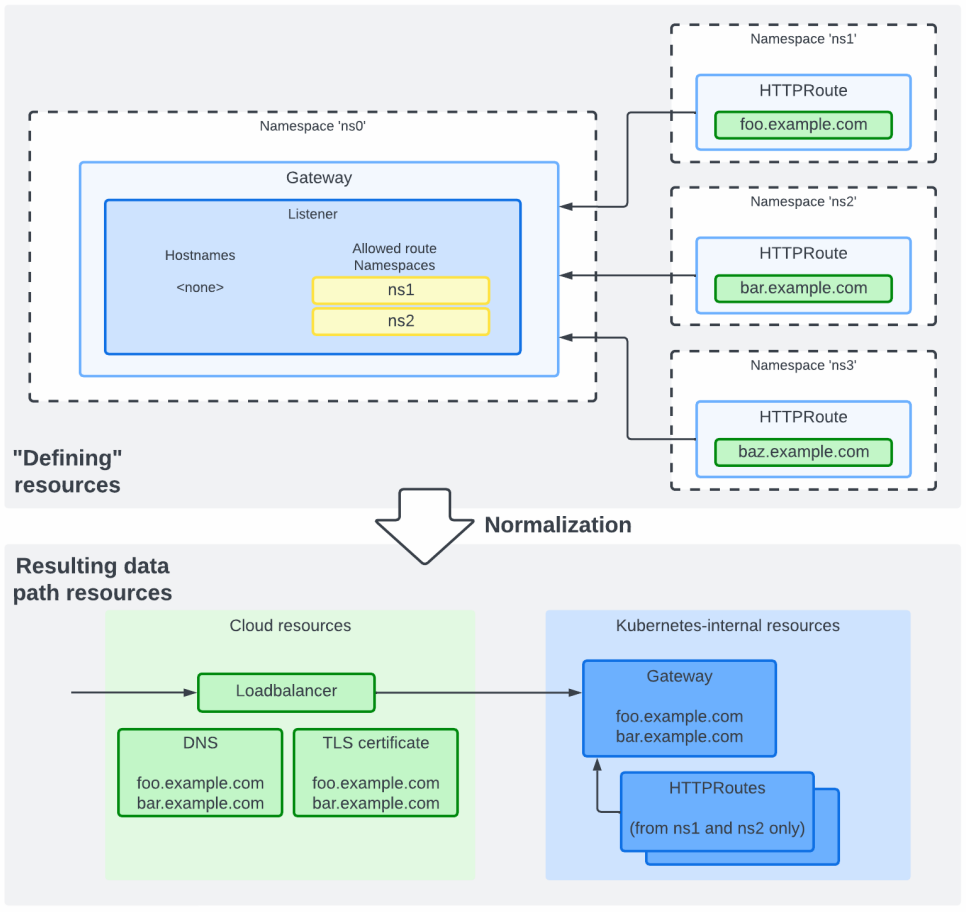
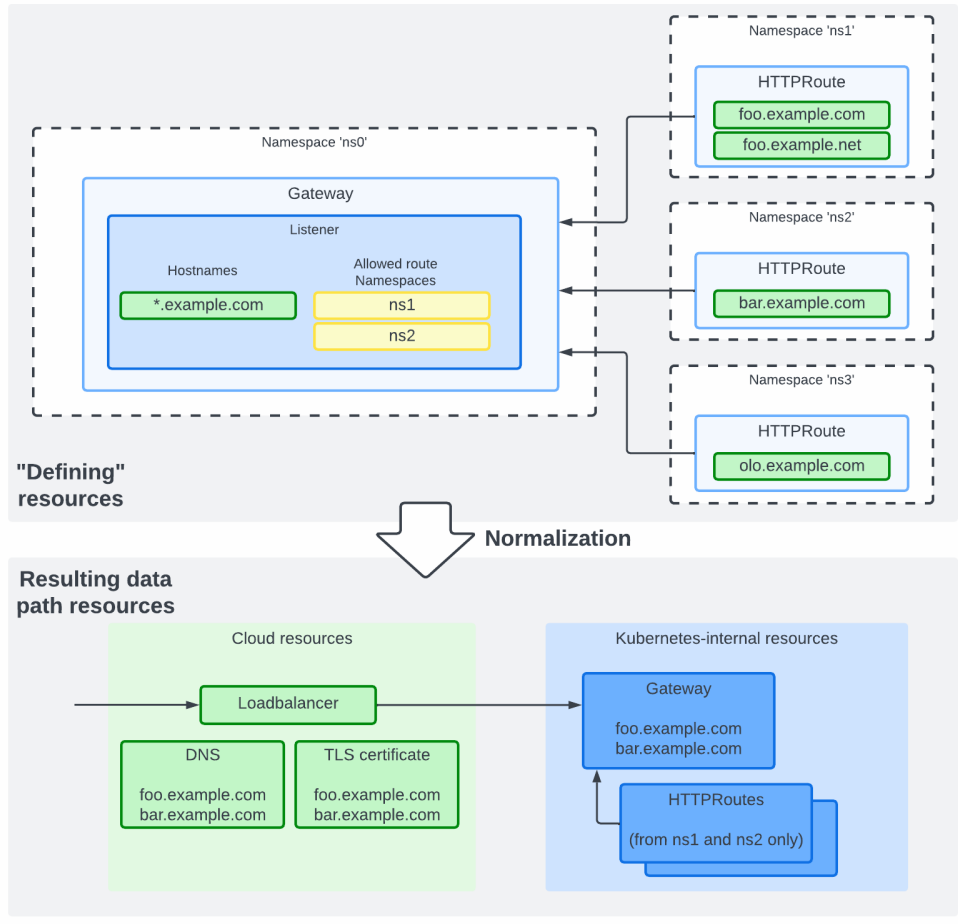
Update normalization doc

diff --git a/doc/normalization.md b/doc/normalization.md
@@ -14,10 +14,13 @@ such as TLS certificates.
 In the figure below, an example is shown, where the `Gateway` resource
 does not specify hostnames, but the three `HTTPRoute`s that reference
 the `Gateway` do. The `Gateway` does not allow `HTTPRoute`s from
-namespace `ns3` hence this `HTTPRoute` will be ignored. The
+namespace `ns3` hence this `HTTPRoute` must be ignored. The
 `HTTPRoute`s from `ns1` and `ns2` are allowed by the `Gateway` so
 collectively the data path will allow only the two domains associated
-with those routes.
+with those routes and only where the host name on the `Gateway`
+listeners [intersect (see gateway API
+spec)](https://gateway-api.sigs.k8s.io/references/spec/#gateway.networking.k8s.io%2fv1beta1.Listener)
+with the `HTTPRoute` hostname(s).
 
 The *cloud-gateway-controller* will normalize the 'defining resources'
 such that it can (depending on the actual data path definition
